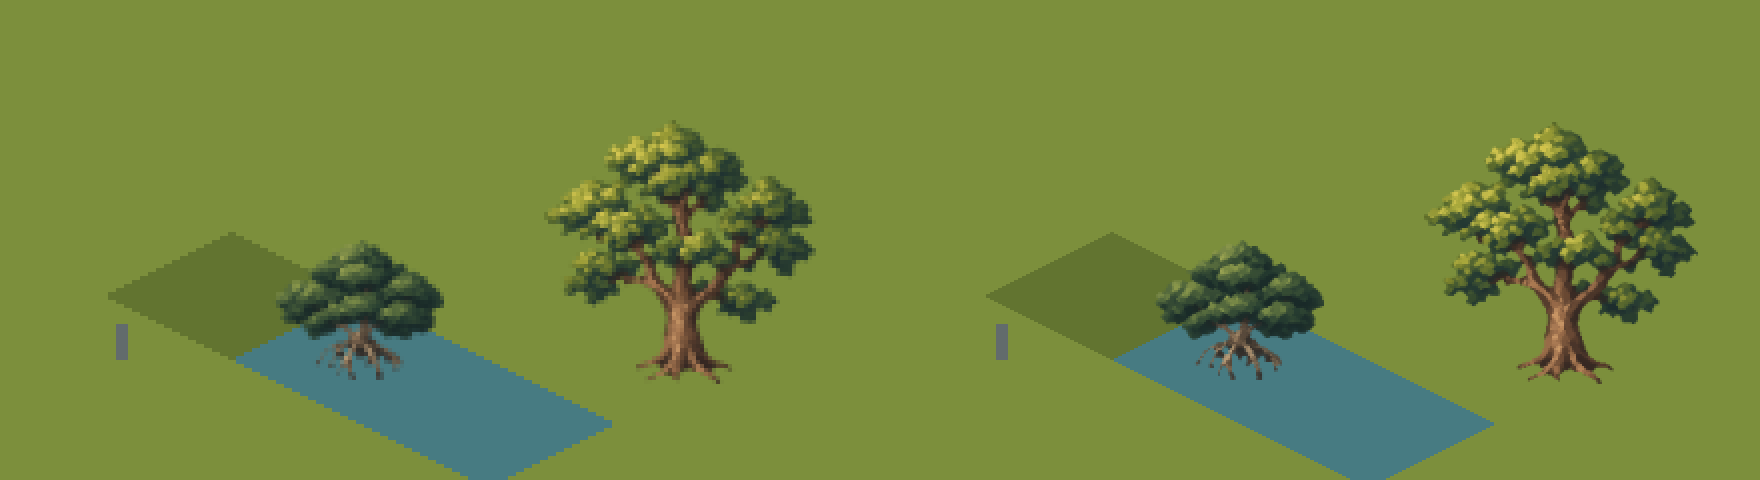
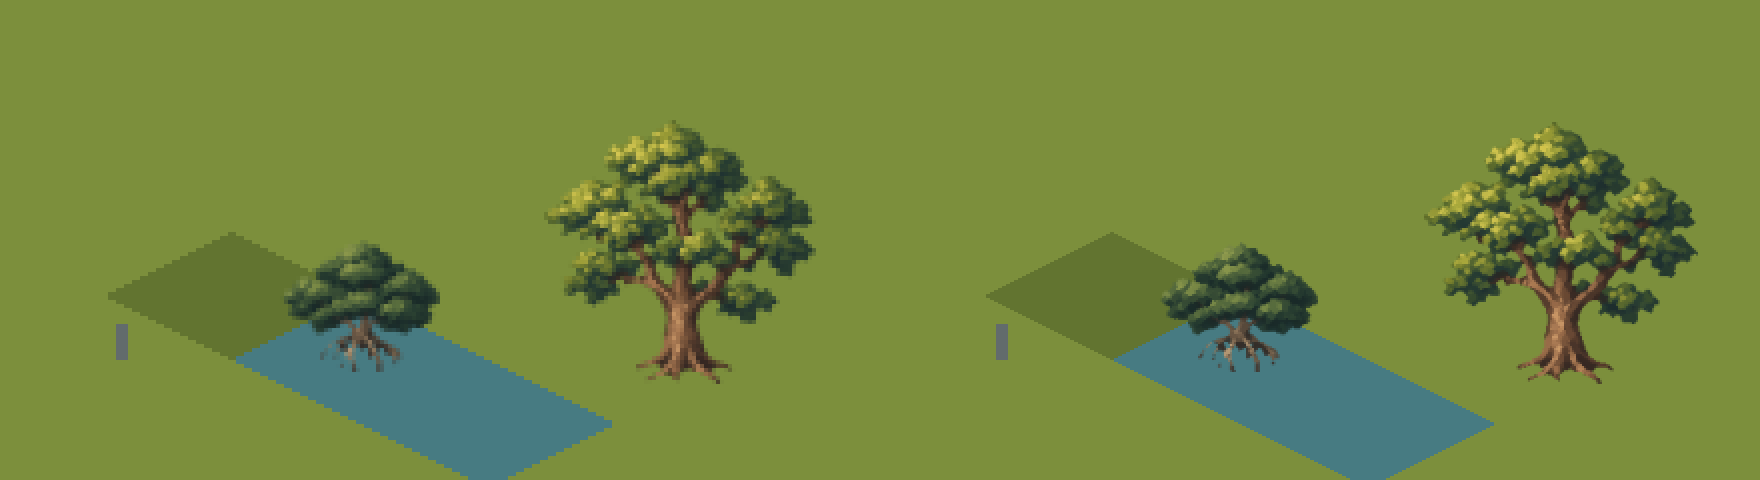
Waterside trees: three anchors stand where Core's review read the feet
Finish F1 of the 2026-10-17 art review. record-eye-feet.mjs runs check-tree.mjs with the eye
foot and --record for tree-mangrove-1 (637,1000), tree-mangrove-2 (640,1032) and tree-willow-3
(652,1211), copies each result into the selected attempt's measured record in prompts.json with
the automatic measurement kept under automaticMeasurement, and runs verify-set.mjs (passed, 6
trees, 13 attempts). k 0.03525 / 0.04126 / 0.05137, widths 40.1 / 54.2 / 73.7, root spreads
21.6 / 29.4, willow-3 anchor 652,1094.2 and footFromCentre 1.3, as the review expected. No
painting changed; sha256.json is the same. A second run changes nothing.

Claude-Session: https://claude.ai/code/session_01PhZXSrZ8qdradU8ZMK8kT3

Changed region(s): [[0.1562, 0.5625, 0.25, 0.7812], [0.6562, 0.5625, 0.75, 0.7812], [0.6875, 0.5312, 0.7188, 0.5625]]

diff --git a/assets/source/waterside-trees-2026-10-16/README.md b/assets/source/waterside-trees-2026-10-16/README.md
@@ -6,14 +6,16 @@ Each selected PNG is a byte-for-byte copy of its retained raw attempt. All 13 ra
 
 | Picture             | Selected attempt | Drawn height | Drawn width | Root spread | Foot in source | Anchor in source | Outstanding tree failures |
 | ------------------- | ---------------: | -----------: | ----------: | ----------: | -------------- | ---------------- | ------------------------- |
-| tree-mangrove-1.png |                2 |           30 |       42.58 |       22.91 | 637, 950.5     | 637, 950.5       | None                      |
-| tree-mangrove-2.png |                2 |           38 |       56.46 |       30.66 | 641, 994.5     | 641, 994.5       | None                      |
+| tree-mangrove-1.png |                2 |           30 |       40.10 |       21.57 | 637, 1000      | 637, 1000        | None                      |
+| tree-mangrove-2.png |                2 |           38 |       54.17 |       29.41 | 640, 1032      | 640, 1032        | None                      |
 | tree-mangrove-3.png |                2 |           46 |       73.85 |       43.59 | 638, 1040      | 638, 1040        | None                      |
 | tree-willow-1.png   |                3 |           40 |       52.57 |           — | 630, 1195      | 630, 1044.4783   | None                      |
 | tree-willow-2.png   |                2 |           48 |       64.74 |           — | 623.5, 1199    | 623.5, 1070.4444 | None                      |
-| tree-willow-3.png   |                2 |           54 |       73.73 |           — | 611.5, 1211    | 611.5, 1094.2    | None                      |
+| tree-willow-3.png   |                2 |           54 |       73.73 |           — | 652, 1211      | 652, 1094.2      | None                      |
 
 Widths and root spreads include the packer's 1.2 widening and runtime tree scale. Source feet and anchors are unrounded in `trees.json`. Mangrove 3 uses the visible root-tip ellipse center read by eye; willow 1 uses the central trunk foot rather than its lower projecting side root. Their automatic estimates, both measurement runs, reasons and final foot choices are retained in `prompts.json`.
+
+Core's art review of 2026-10-17 read three more feet by eye (finish F1), and `record-eye-feet.mjs` re-records them. Mangrove 1 and mangrove 2 now stand on the centre of their root-tip ellipse, under the trunk: the automatic foot was the back root tip, because the root ring is flatter than 2:1, which put the anchor 1.9 and 1.6 drawn px too high. Willow 3 stands on its trunk axis: the automatic foot was a front root leaning left, 2.5 drawn px off the trunk. The script runs `check-tree.mjs --foot … --record` for each, copies the result into the selected attempt's `measured` record with the automatic one kept under `automaticMeasurement`, and runs `verify-set.mjs`; a second run changes nothing. No painting changed and `sha256.json` is the same.
 
 Every selected painting has zero edge pixels, zero cursor-white pixels, zero selection-amber pixels, and zero cyan-water percentage. All widths, root spreads, center offsets and willow below-foot distances pass. The looks in `checks/` were inspected at zoom 1 and zoom 2 for species, placement, clusters, light, colour depth and absence of painted ground, water and shadows. Earlier attempts were retained because their highlights were too bright; young willow attempt 1 also failed the width range.
 
@@ -22,10 +24,11 @@ Run from the repository root with the existing pngjs development dependency avai
 ```sh
 node assets/source/waterside-trees-2026-10-16/check-tree.mjs assets/source/waterside-trees-2026-10-16/tree-mangrove-3.png --kind mangrove --height 46 --foot 638,1040 --record
 node assets/source/waterside-trees-2026-10-16/check-tree.mjs assets/source/waterside-trees-2026-10-16/tree-willow-1.png --kind willow --height 40 --foot 630,1195 --record
+node assets/source/waterside-trees-2026-10-16/record-eye-feet.mjs
 node assets/source/waterside-trees-2026-10-16/verify-set.mjs
 ```
 
-For other selected trees, use their height above and omit `--foot`. `check-tree.mjs` reads the input path from the current directory and locates the atlas and output folder relative to itself. It writes a single JSON result and the paired zoom look. `verify-set.mjs` verifies the six selections, 13 RGBA raw images, dimensions, hashes, measurement records, numeric acceptance limits and visual-review records, then refreshes `sha256.json`.
+`record-eye-feet.mjs` covers mangrove 1, mangrove 2 and willow 3 with their eye feet. For willow 2, use its height above and omit `--foot`. `check-tree.mjs` reads the input path from the current directory and locates the atlas and output folder relative to itself. It writes a single JSON result and the paired zoom look. `verify-set.mjs` verifies the six selections, 13 RGBA raw images, dimensions, hashes, measurement records, numeric acceptance limits and visual-review records, then refreshes `sha256.json`.
 
 The checker was calibrated before painting: round tree returned [1536,1024], box [371,85,1166,936], foot [800,935], anchor [800,828.75], width 53.9407, offset 2.1346, edge pixels 0, cursor-white 0, amber 57, luminance P99 223.014. Reeds foot [898,794.5], width 15.8768, root spread 9.5969. These match the requested tolerances.
 
